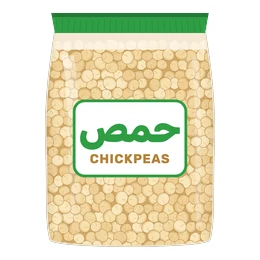
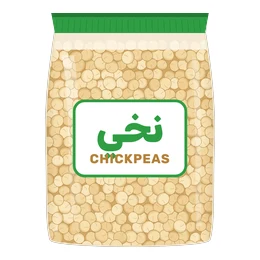
Chickpeas are نخي

Changed region(s): [[0.3077, 0.4308, 0.7077, 0.6154]]

diff --git a/js/store.js b/js/store.js
@@ -82,7 +82,7 @@ window.Store = (function () {
           partner: { name: 'IISE Kuwait University Chapter', logo: 'img/partners/iise.png' },
           items: [
             { ...box('rice', 'عيش', 'أكياس', 60), star: true },
-            box('flour', 'طحين', 'أكياس', 120), box('fool', 'فول', 'علب', 180), box('chickpeas', 'حمص', 'أكياس', 180),
+            box('flour', 'طحين', 'أكياس', 120), box('fool', 'فول', 'علب', 180), box('chickpeas', 'نخي', 'أكياس', 180),
             box('tomato', 'معجون طماطم', 'علب', 480), { ...box('lentils', 'عدس', 'أكياس', 120), size: '900 جرام' },
             box('pasta', 'معكرونة', 'أكياس', 120), box('tea', 'شاي', 'علب', 60), box('dates', 'تمر', 'علب', 60),
             { ...box('oil', 'زيت', 'غراش', 120), size: '1 لتر' }, box('sugar', 'سكر', 'أكياس', 60)
